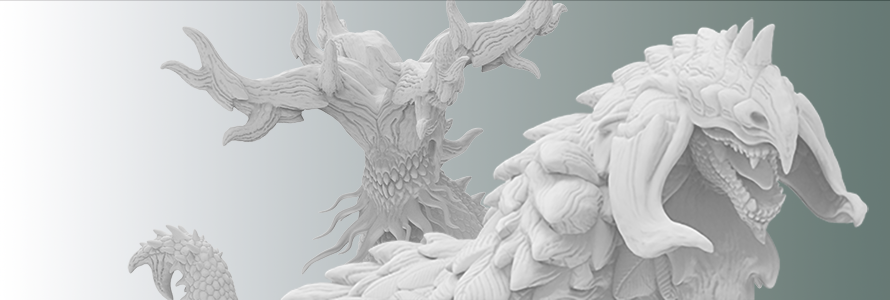
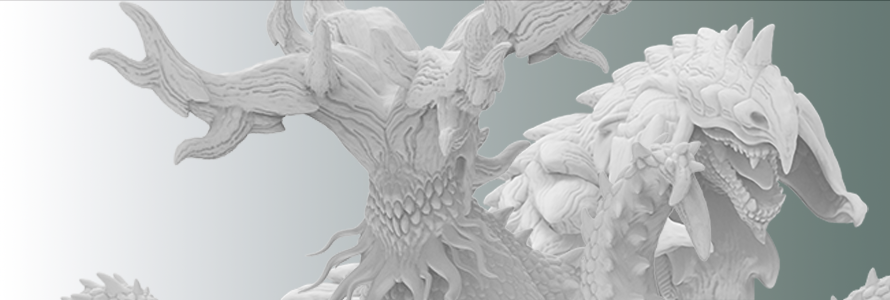
ver.1.4.0

diff --git a/css/common.css b/css/common.css
@@ -130,45 +130,4 @@ h1 {
     font-size: 18px !important;
     padding: 15px 25px !important;
   }
-
-/* ==========================================
-     index.html（トップページ）用のスマホ調整
-     ========================================== */
-
-  /* 1. 「はじめに」枠（#news）のスマホ最適化 */
-  #news {
-    width: 90% !important;        /* 750px固定から画面幅の90%に変更 */
-    max-width: 100% !important;
-    padding: 20px 15px !important;/* 左右50pxの余白を15pxに縮小 */
-    font-size: 15px !important;    /* スマホで見やすい文字サイズに */
-    line-height: 1.8 !important;  /* 行間を調整 */
-    box-sizing: border-box !important; /* 枠線と余白を内側に含める */
-  }
-
-  .l_news {
-    width: 100% !important;       /* 300px固定から100%に変更 */
-    font-size: 20px !important;   /* タイトルを少し小さく */
-  }
-
-  /* 2. 作品カード一覧（.contents）のスマホ最適化 */
-  .contents {
-    padding-left: 0 !important;      /* リスト特有の左余白を完全にリセット */
-    margin-left: 0 !important;
-    margin-right: 0 !important;
-    justify-content: center !important; /* 全体を画面中央に寄せる */
-    width: 100% !important;
-  }
-
-  .contents li {
-    width: 90% !important;          /* カードの幅 */
-    max-width: 400px !important;    /* 大きくなりすぎない上限 */
-    margin-left: auto !important;   /* 左右の余白を auto にして */
-    margin-right: auto !important;  /* 確実に左右中央揃え（中央軸）にする */
-    padding: 0 !important;          /* 外枠の不要な余白をカット */
-  }
-
-  .contents li a img {
-    width: 100% !important;         /* 画像もカード幅いっぱいに収める */
-    height: auto !important;
-  }
 }

diff --git a/css/index.css b/css/index.css
@@ -85,20 +85,6 @@ li{
   color: #333333;
 }
 
-#normal{
-  width: 750px;
-  text-align: justify;
-  margin: 0 auto;
-  font-family: Georgia, 'Times New Roman', Times, serif;
-  font-size: 18px;
-  font-weight: normal;
-  line-height: 37px;
-  color: #333333;
-  padding: 30px;
-  padding-bottom: 30px;
-  font-weight: bold;
-}
-
     /* --- リンクの枠（カード）デザインの調整 --- */
 /* --- リンクの枠（カード）デザインの調整 --- */
 .contents {
@@ -126,6 +112,8 @@ li{
       border-radius: 5px;          /* 枠の角を丸くする */
       overflow: hidden;            /* はみ出た画像を丸角に合わせる */
       background-color: #333333;
+      letter-spacing: 1.5px;
+      text-shadow: 0 2px 8px whitesmoke;
       transition: transform 0.2s, box-shadow 0.2s; /* ホバー時のアニメーション */
     }
     /* マウスを乗せたときの動き */
@@ -158,7 +146,7 @@ li{
   padding: 60px 20px;            /* 左右の余白を均等に */
   font-size: 25px;
   line-height: 1.9;
-  background-image: url("../background_img/vol001.png");
+  background-image: url("../background_img/title_headmodel.png");
   background-size: cover;        /* 追加：背景画像を枠いっぱいに収める */
   background-position: center;   /* 追加：背景画像を中央寄せ */
   text-align: center;
@@ -317,7 +305,7 @@ li{
   }
 
   .contents li a .work-title01 {
-    background-image: url("../background_img/vol001.png") !important;
+    background-image: url("../background_img/title_headmodel.png") !important;
     background-size: cover !important;
     
     /* ↓ 中央寄せから「右寄せ・上下中央」に変更 */

diff --git a/index.html b/index.html
@@ -71,15 +71,15 @@
       <ul class="contents">    
         <li>
           <a href="standard_model.html">
-            <div class="work-title">全身像モデルフィギュア
+            <div class="work-title">スタンダードモデルフィギュア
               <br><span class="catch">〜 ハイクオリティと手軽さを両立させたモデル 〜</span>
             </div>
           </a>
         </li>
         <li>
           <a href="head_model.html">
-            <div class="work-title01">胸像モデルフィギュア
-              <br><span class="catch">〜 手軽さを重視したモデル 〜</span>
+            <div class="work-title01">コンパクトモデルフィギュア
+              <br><span class="catch">〜 手軽さとコレクション性を重視したモデル 〜</span>
             </div>
           </a>
         </li>

diff --git a/standard_model.html b/standard_model.html
@@ -49,12 +49,19 @@
   </div>
 
   <div class="slideshow-text">
-    <h3>- 全身像モデルフィギュア -</h3>
+    <h3>- スタンダードモデルフィギュア -</h3>
     <p></p>
   </div>
 
   <!-- ★ここから下を <div class="main-content"> で囲む -->
   <div class="main-content">
+
+    <div id="news">
+      <p class="l_news">- スタンダードモデルフィギュアとは -</p>
+      スタンダードモデルフィギュアは、比較的手軽なサイズ感を担保したハイクオリティの全身造形モデルフィギュアです。
+      生物的な質感や肌触り・重量感など細部までこだわって製作しております。
+      また、造形される生物たちは全てオリジナルデザインのクリーチャーです。
+    </div>
     <br><br><br><br>
 
     <div class="month">

diff --git a/css/standard_model.css b/css/standard_model.css
@@ -72,7 +72,7 @@ li{
   border-radius: 0px; 
 }
 .l_news{
-  width:300px ;
+  width:500px ;
   text-align: center;
   font-size: 25px;
   font-weight: 600;
@@ -85,21 +85,6 @@ li{
   color: #333333;
 }
 
-#normal{
-  width: 750px;
-  text-align: justify;
-  margin: 0 auto;
-  font-family: Georgia, 'Times New Roman', Times, serif;
-  font-size: 18px;
-  font-weight: normal;
-  line-height: 37px;
-  color: #333333;
-  padding: 30px;
-  padding-bottom: 30px;
-  font-weight: bold;
-}
-
-    /* --- リンクの枠（カード）デザインの調整 --- */
 /* --- リンクの枠（カード）デザインの調整 --- */
 .contents {
   list-style: none; /* リストの点を消す */

diff --git a/css/head_model.css b/css/head_model.css
@@ -72,7 +72,7 @@ li{
   border-radius: 0px; 
 }
 .l_news{
-  width:300px ;
+  width:500px ;
   text-align: center;
   font-size: 25px;
   font-weight: 600;
@@ -83,20 +83,6 @@ li{
   margin-bottom: 10px;
   margin-top: 10px;
   color: #333333;
-}
-
-#normal{
-  width: 750px;
-  text-align: justify;
-  margin: 0 auto;
-  font-family: Georgia, 'Times New Roman', Times, serif;
-  font-size: 18px;
-  font-weight: normal;
-  line-height: 37px;
-  color: #333333;
-  padding: 30px;
-  padding-bottom: 30px;
-  font-weight: bold;
 }
 
     /* --- リンクの枠（カード）デザインの調整 --- */

diff --git a/head_model.html b/head_model.html
@@ -53,6 +53,12 @@
 
   <!-- ★ここから下を <div class="main-content"> で囲む -->
   <div class="main-content">
+
+    <div id="news">
+      <p class="l_news">- コンパクトモデルフィギュアとは -</p>
+      コンパクトモデルフィギュアは、手軽なサイズ感とコレクションのしやすさに重きを置いたフィギュアモデルです。
+      コンパクトになりつつも、クオリティの担保と集めがいが出るようなものを目指して製作しております。
+    </div>
     <br><br><br><br>
 
     <div class="month">
